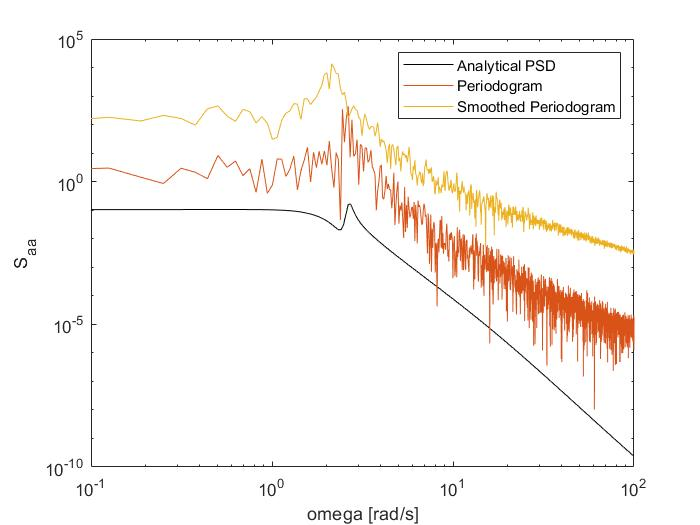
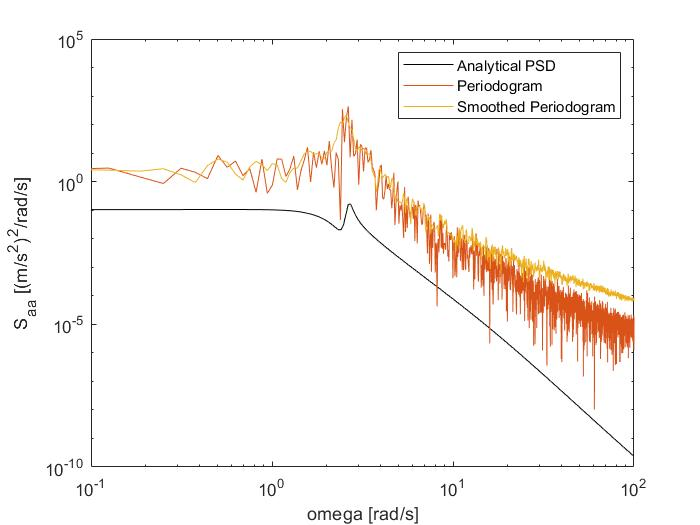
UPDATE

diff --git a/Ch_3_spectral_analysis.m b/Ch_3_spectral_analysis.m
@@ -82,32 +82,32 @@ pRbv_r = pRbv_r/2;
 % pay_psd_c = (    pay_c.*conj(pay_c));
 figure(1)
 subplot(2,1,1); loglog(w,Sxx(:,1),'k',omega,beta_psd_c (1:N/2),'-',omega,pBETA_c(2:N/2+1)) 
-axis(10.^[-1 2 -12 -2]); xlabel('omega [rad/s]'); ylabel('S_\beta_\beta_c');
+axis(10.^[-1 2 -12 -2]); xlabel('omega [rad/s]'); ylabel('S_\beta_\beta_c[rad^2/rad/s]');
 legend('Analytical PSD', 'Periodogram','Smoothed Periodogram')
 subplot(2,1,2); loglog(w,Sxx_r(:,1),'k',omega,beta_psd_r(1:N/2),'-',omega,pBETA_r(2:N/2+1))
-axis(10.^[-1 2 -12 -2]); xlabel('omega [rad/s]'); ylabel('S_\beta_\beta_r ')
+axis(10.^[-1 2 -12 -2]); xlabel('omega [rad/s]'); ylabel('S_\beta_\beta_r[rad^2/rad/s] ')
 legend('Analytical PSD', 'Periodogram','Smoothed Periodogram')
 
 figure(2)
 subplot(2,1,1); loglog(w,Sxx(:,2),'k',omega,phi_psd_c(1:N/2),'-',omega,pPhi_c(2:N/2+1));
-axis(10.^[-1 2 -12 0]); xlabel('omega [rad/s]'); ylabel('S_\phi_\phi_c')
+axis(10.^[-1 2 -12 0]); xlabel('omega [rad/s]'); ylabel('S_\phi_\phi_c [rad^2/rad/s]')
 legend('Analytical PSD', 'Periodogram','Smoothed Periodogram')
 subplot(2,1,2); loglog(w,Sxx(:,3),'k',omega,pbv_psd_c(1:N/2),'-',omega,pPbv_c(2:N/2+1));
-axis(10.^[-1 2 -12 -2]); xlabel('omega [rad/s]'); ylabel('S_p_p')
+axis(10.^[-1 2 -12 -2]); xlabel('omega [rad/s]'); ylabel('S_p_p [rad^2/rad/s]')
 legend('Analytical PSD', 'Periodogram','Smoothed Periodogram')
 
 figure(3)
 subplot(2,1,1)
 loglog(w,Sxx(:,4),'k',omega,rbv_psd_c(1:N/2),'-',omega,pRbv_c(2:N/2+1));
-axis(10.^[-1 2 -12 -2]); xlabel('omega [rad/s]'); ylabel('S_r_r_c')
+axis(10.^[-1 2 -12 -2]); xlabel('omega [rad/s]'); ylabel('S_r_r_c [rad^2/rad/s]')
 legend('Analytical PSD', 'Periodogram','Smoothed Periodogram')
 subplot(2,1,2); loglog(w,Sxx_r(:,2),'k',omega,rbv_psd_r(1:N/2),'-',omega,pRbv_r(2:N/2+1));
-axis(10.^[-1 2 -12 -2]); xlabel('omega [rad/s]'); ylabel('S_r_r_r')
+axis(10.^[-1 2 -12 -2]); xlabel('omega [rad/s]'); ylabel('S_r_r_r [rad^2/rad/s]')
 legend('Analytical PSD', 'Periodogram','Smoothed Periodogram')
 
 figure(4)
 loglog(w,Sxx(:,5),'k',omega,ay_psd_c(1:N/2),'-',omega,pay_c(2:N/2+1));
-axis(10.^[-1 2 -10 5]); xlabel('omega [rad/s]'); ylabel('S_a_a')
+axis(10.^[-1 2 -10 5]); xlabel('omega [rad/s]'); ylabel('S_a_a [(m/s^2)^2/rad/s]')
 legend('Analytical PSD', 'Periodogram','Smoothed Periodogram')
 % subplot(2,1,2); 
 % (loglog(w,Sxx_r(:,3),'k',omega,ay_psd_r(1:N/2),'-',omega(1:8193),pay_c));

diff --git a/Ch_4_variance.m b/Ch_4_variance.m
@@ -29,12 +29,12 @@ W = eye(2,2);
 B=B(:,4:5);
 L   = lyap(A2,B*W*B');
 L   = L(1:4,1:4);
-var_L = diag(L)'
+var_L = diag(L)';
 
 %Reduced model
-Br=Br(:,4:5);
-Lr   = lyap(Ar,Br*W*Br');
-Lr   = Lr(1:2,1:2);
-var_L_r = diag(Lr)'
+%Br=Br(:,4:5);
+% Lr   = lyap(Ar,Br*W*Br');
+% Lr   = Lr(1:2,1:2);
+% var_L_r = diag(Lr)'
 
 
